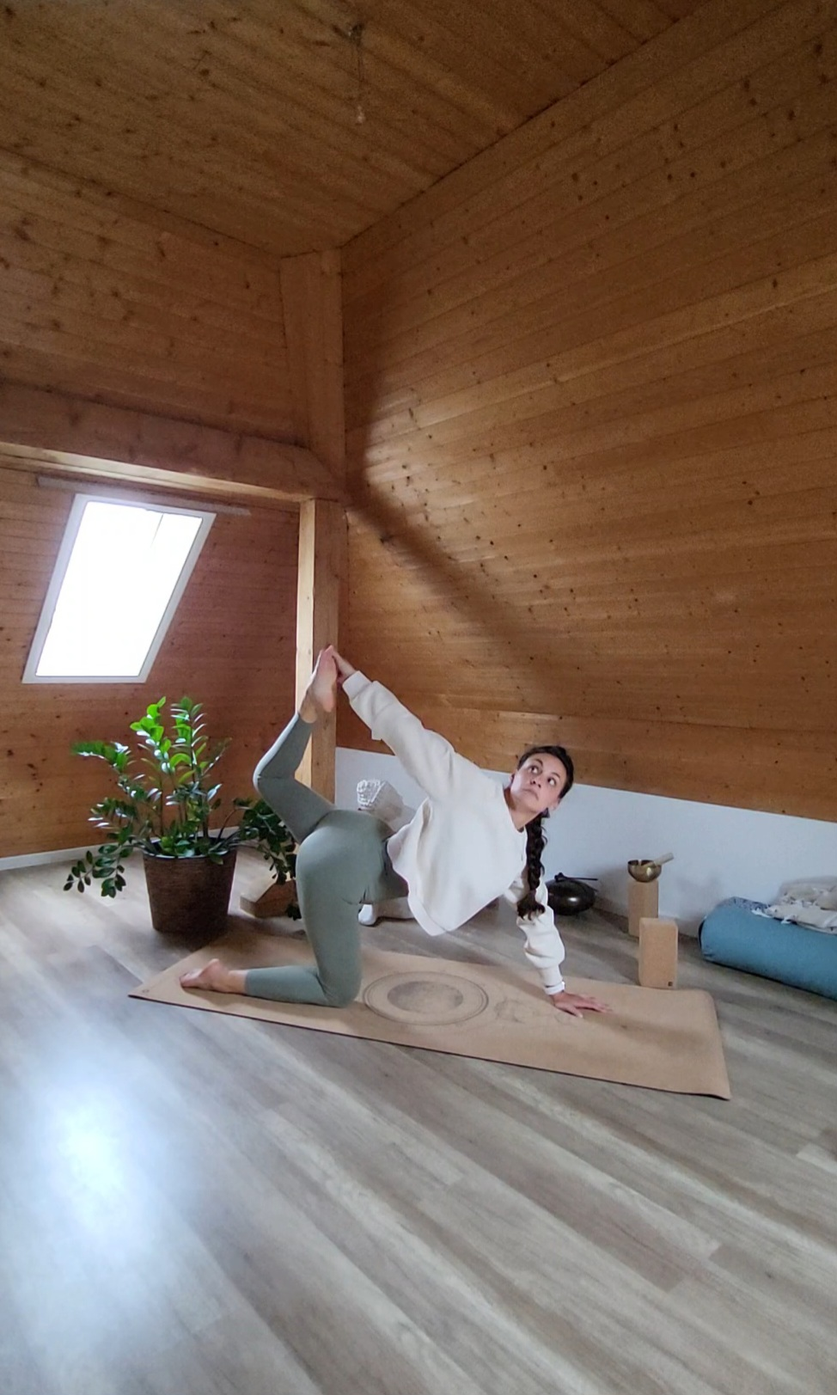
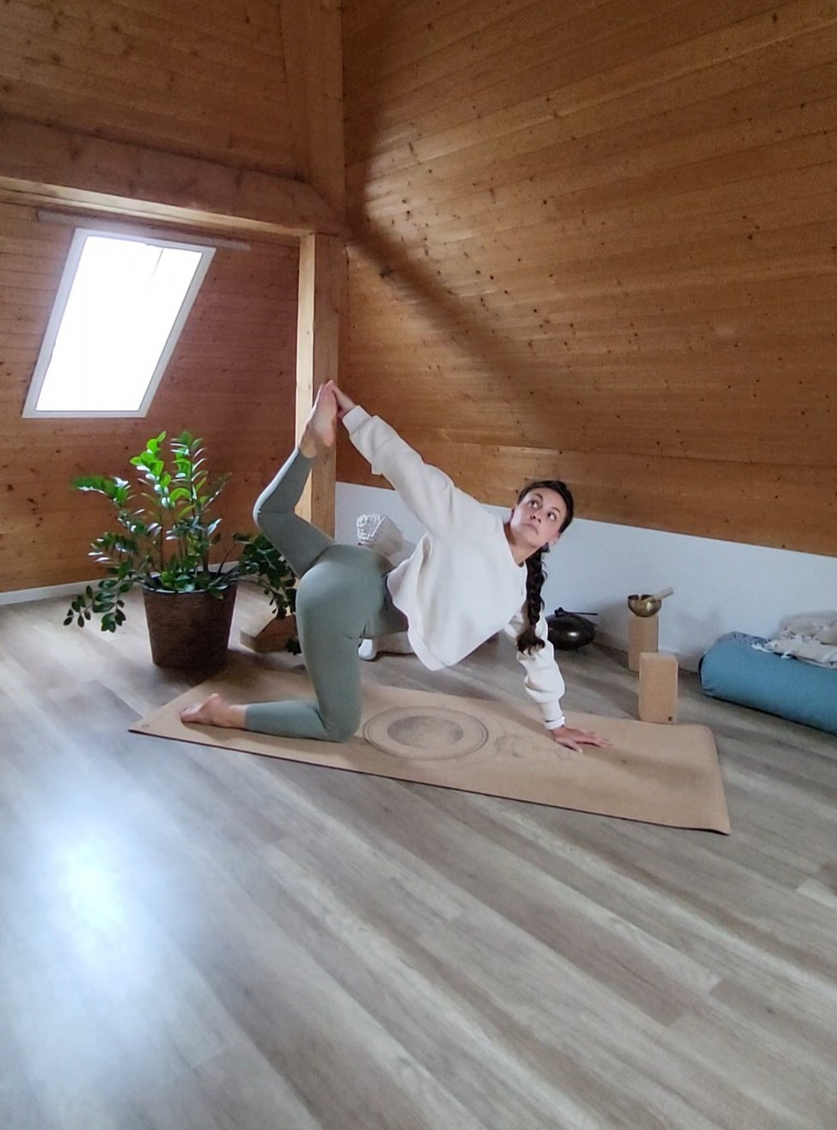
improving veranaturae

diff --git a/fr/veranaturae.html b/fr/veranaturae.html
@@ -72,37 +72,41 @@
                 <div class="services-grid">
                     <div class="service-grid-item">
                         <div class="service-image">
-                            <img src="../assets/mindfulness01.jpg" alt="Pleine Conscience au Travail">
+                            <img src="../assets/mindfulness01.jpg" alt="Coaching 1 à 1">
                         </div>
-                        <h4>Pleine Conscience au Travail</h4>
-                        <p>Intégrez la pleine conscience dans votre vie professionnelle avec des techniques pratiques pour réduire le stress, améliorer la concentration et créer un environnement de travail plus équilibré.</p>
+                        <h4>Coaching 1:1</h4>
+                        <p>Accédez à une vie plus équilibrée avec un accompagnement personnalisé.
+                            Que vous soyez nouveau dans la pleine conscience ou que vous approfondissiez une pratique existante, mes sessions de coaching individuelles sont conçues autour de vos objectifs uniques et du rythme de votre vie. Ensemble, nous cultiverons la présence, la résilience et la conscience de soi - une respiration consciente à la fois.</p>
                     </div>
                     <div class="service-grid-item">
                         <div class="service-image">
-                            <img src="../assets/landscape_01.jpeg" alt="Coaching Individuel">
-                        </div>
-                        <h4>Coaching Individuel</h4>
-                        <p>Sessions de coaching en pleine conscience personnalisées selon vos besoins et objectifs spécifiques, offrant un accompagnement et un soutien individuels sur votre parcours.</p>
-                    </div>
-                    <div class="service-grid-item">
-                        <div class="service-image">
-                            <img src="../assets/vero_01.jpg" alt="Retraite">
+                            <img src="../assets/nature02.jpg" alt="Retraite">
                         </div>
                         <h4>Retraite</h4>
-                        <p>Plongez-vous dans la nature avec nos retraites de pleine conscience, offrant une connexion profonde, un renouveau et des expériences transformatrices dans de beaux cadres naturels.</p>
+                        <p>Échappez au bruit et reconnectez-vous avec vous-même.
+                            Rejoignez l'une de mes retraites de pleine conscience en petit groupe dans les environs paisibles de Berne. Ces retraites de week-end ou de plusieurs jours offrent un espace pour un repos profond, la méditation guidée, le mouvement conscient et du temps dans la nature, afin que vous reveniez rafraîchi et inspiré.</p>
                     </div>
                     <div class="service-grid-item">
                         <div class="service-image">
-                            <img src="../assets/antoine_06.jpg" alt="Yoga et Respiration">
+                            <img src="../assets/plants_02.jpeg" alt="Pleine Conscience au Travail">
+                        </div>
+                        <h4>Pleine Conscience au Travail</h4>
+                        <p>Améliorez le bien-être, la concentration et la collaboration de votre équipe.
+                            Mes ateliers de pleine conscience personnalisés et mes sessions d'entreprise apportent clarté et calme sur le lieu de travail. Aidez votre équipe à réduire le stress, gérer le changement et améliorer l'intelligence émotionnelle, directement au cœur de votre organisation.</p>
+                    </div>
+                    <div class="service-grid-item">
+                        <div class="service-image">
+                            <img src="../assets/mindfulness02.jpg" alt="Yoga et Respiration">
                         </div>
                         <h4>Yoga et Respiration</h4>
-                        <p>Combinez des mouvements de yoga doux avec des pratiques de respiration consciente pour cultiver la conscience, réduire les tensions et améliorer votre connexion corps-esprit.</p>
+                        <p>Ralentissez, adoucissez et respirez.
+                            Le yoga et la respiration sont de puissants alliés sur le chemin de la pleine conscience. Dans ces sessions, nous combinons un mouvement conscient et doux avec des techniques de respiration guidées pour vous aider à libérer le stress, calmer l'esprit et revenir à votre centre intérieur.</p>
                     </div>
                 </div>
             </div>
             <div class="modal-footer">
                 <h4>Intéressé ? Contactez-moi !</h4>
-                <p>Prêt à commencer votre parcours de pleine conscience ? J'aimerais avoir de vos nouvelles et vous aider à trouver la pratique parfaite pour vos besoins.</p>
+                <p>Vous n'avez besoin d'aucune expérience, vous avez juste besoin d'être prêt à vous présenter tel que vous êtes. À travers le mouvement conscient et le rythme naturel de votre respiration, nous créons un espace pour la présence, l'équilibre et la restauration profonde.</p>
                 <a href="mailto:veronica@oceantoearth.life" class="button">Me Contacter</a>
             </div>
         </div>
@@ -158,13 +162,10 @@
                 <h2>À Propos de Moi</h2>
                 <div class="about-content">
                     <div class="about-text">
-                        <p>Bonjour, je suis Veronica – biologiste des plantes, coach en pleine conscience, amoureuse de la nature – et quelqu'un qui sait ce que c'est que de vivre en pilote automatique.</p>
+                        <p>Bonjour, je suis Veronica – biologiste des plantes, coach en pleine conscience, amoureuse de la nature, et quelqu'un qui sait ce que c'est que de vivre en pilote automatique.</p>
                         <p>Pendant des années, j'ai travaillé comme biologiste des plantes, profondément connectée au monde naturel. La nature a toujours été mon refuge - un endroit où je me sentais en paix, ancrée et vraiment moi-même. Mais quelque chose a changé quand j'ai découvert la pleine conscience : cette sensation de connexion s'est approfondie. La façon dont je vivais la vie, y compris mon temps dans la nature, est devenue plus vive, plus présente, plus vivante.</p>
-                        <p>La pleine conscience m'a appris à ralentir, respirer et vraiment ressentir. Même quelque chose que j'ai toujours aimé - comme la plongée - a pris une toute nouvelle profondeur. Maintenant, quand je plonge avec une pleine conscience, en accordant mon attention à chaque respiration et à chaque sensation dans mon corps, ce n'est plus juste un passe-temps ; c'est une expérience puissante et ancrante.</p>
                         <p>C'est ce qui m'a inspirée à devenir coach en pleine conscience. Je voulais partager cette façon de vivre plus consciemment - avec moins de stress, plus de présence et plus de joie.</p>
-                        <p>Que vous traversiez des défis, que vous cherchiez le calme, ou que vous souhaitiez simplement vous reconnecter avec vous-même, je suis là pour vous soutenir. Mon approche est simple, terre à terre et humaine. Vous n'avez pas besoin de vous asseoir en silence pendant des heures ou d'être "bon en méditation". Vous avez juste besoin d'une volonté de faire une pause, respirer et avancer un pas à la fois.</p>
-                        <p>Je crois que tout le monde mérite d'expérimenter le pouvoir guérisseur de ces pratiques, et je m'engage à créer des espaces sûrs et accueillants où les gens peuvent explorer, apprendre et grandir ensemble.</p>
-                    </div>
+                        </div>
                     <div class="about-image">
                         <img src="../assets/vero_01.jpg" alt="Veronica - Guide en Pleine Conscience">
                     </div>

diff --git a/de/veranaturae.html b/de/veranaturae.html
@@ -72,37 +72,41 @@
                 <div class="services-grid">
                     <div class="service-grid-item">
                         <div class="service-image">
-                            <img src="../assets/mindfulness01.jpg" alt="Achtsamkeit am Arbeitsplatz">
+                            <img src="../assets/mindfulness01.jpg" alt="1 zu 1 Coaching">
                         </div>
-                        <h4>Achtsamkeit am Arbeitsplatz</h4>
-                        <p>Bringen Sie Achtsamkeit in Ihr Berufsleben mit praktischen Techniken zur Stressreduktion, Verbesserung der Konzentration und Schaffung einer ausgewogeneren Arbeitsumgebung.</p>
+                        <h4>1:1 Coaching</h4>
+                        <p>Treten Sie in ein ausgewogeneres Leben mit persönlicher Begleitung ein.
+                            Ob Sie neu in der Achtsamkeit sind oder eine bestehende Praxis vertiefen, meine individuellen Coaching-Sitzungen sind um Ihre einzigartigen Ziele und den Rhythmus Ihres Lebens herum gestaltet. Gemeinsam kultivieren wir Präsenz, Widerstandsfähigkeit und Selbstbewusstsein - ein achtsamer Atemzug nach dem anderen.</p>
                     </div>
                     <div class="service-grid-item">
                         <div class="service-image">
-                            <img src="../assets/landscape_01.jpeg" alt="Einzelcoaching">
-                        </div>
-                        <h4>Einzelcoaching</h4>
-                        <p>Personalisierte Achtsamkeits-Coaching-Sitzungen, die auf Ihre spezifischen Bedürfnisse und Ziele zugeschnitten sind und individuelle Anleitung und Unterstützung auf Ihrem Weg bieten.</p>
-                    </div>
-                    <div class="service-grid-item">
-                        <div class="service-image">
-                            <img src="../assets/vero_01.jpg" alt="Retreat">
+                            <img src="../assets/nature02.jpg" alt="Retreat">
                         </div>
                         <h4>Retreat</h4>
-                        <p>Tauchen Sie ein in die Natur mit unseren Achtsamkeits-Retreats, die tiefe Verbindung, Erneuerung und transformative Erfahrungen in wunderschönen natürlichen Umgebungen bieten.</p>
+                        <p>Entfliehen Sie dem Lärm und verbinden Sie sich wieder mit sich selbst.
+                            Schließen Sie sich einem meiner kleinen Achtsamkeits-Retreats in der friedlichen Umgebung von Bern an. Diese Wochenend- oder mehrtägigen Retreats bieten Raum für tiefe Erholung, geführte Meditation, achtsame Bewegung und Zeit in der Natur, damit Sie erfrischt und inspiriert zurückkehren.</p>
                     </div>
                     <div class="service-grid-item">
                         <div class="service-image">
-                            <img src="../assets/antoine_06.jpg" alt="Yoga und Atemarbeit">
+                            <img src="../assets/plants_02.jpeg" alt="Achtsamkeit am Arbeitsplatz">
+                        </div>
+                        <h4>Achtsamkeit am Arbeitsplatz</h4>
+                        <p>Steigern Sie das Wohlbefinden, die Konzentration und Zusammenarbeit Ihres Teams.
+                            Meine maßgeschneiderten Achtsamkeits-Workshops und Unternehmenssitzungen bringen Klarheit und Ruhe an den Arbeitsplatz. Helfen Sie Ihrem Team, Stress zu reduzieren, Veränderungen zu bewältigen und emotionale Intelligenz zu verbessern, direkt im Herzen Ihrer Organisation.</p>
+                    </div>
+                    <div class="service-grid-item">
+                        <div class="service-image">
+                            <img src="../assets/mindfulness02.jpg" alt="Yoga und Atemarbeit">
                         </div>
                         <h4>Yoga und Atemarbeit</h4>
-                        <p>Kombinieren Sie sanfte Yoga-Bewegungen mit bewussten Atemübungen, um Achtsamkeit zu kultivieren, Spannungen zu reduzieren und Ihre Körper-Geist-Verbindung zu verbessern.</p>
+                        <p>Verlangsamen Sie, werden Sie weicher und atmen Sie.
+                            Yoga und Atemarbeit sind mächtige Verbündete auf dem Weg der Achtsamkeit. In diesen Sitzungen kombinieren wir sanfte, bewusste Bewegung mit geführten Atemtechniken, um Ihnen zu helfen, Stress abzubauen, den Geist zu beruhigen und zu Ihrem inneren Zentrum zurückzukehren.</p>
                     </div>
                 </div>
             </div>
             <div class="modal-footer">
                 <h4>Interessiert? Melden Sie sich!</h4>
-                <p>Bereit, Ihren Achtsamkeitsweg zu beginnen? Ich würde gerne von Ihnen hören und Ihnen helfen, die perfekte Praxis für Ihre Bedürfnisse zu finden.</p>
+                <p>Sie brauchen keine Erfahrung, Sie müssen nur bereit sein, sich so zu zeigen, wie Sie sind. Durch achtsame Bewegung und den natürlichen Rhythmus Ihres Atems schaffen wir Raum für Präsenz, Gleichgewicht und tiefe Wiederherstellung.</p>
                 <a href="mailto:veronica@oceantoearth.life" class="button">Kontaktieren Sie mich</a>
             </div>
         </div>
@@ -158,12 +162,9 @@
                 <h2>Über Mich</h2>
                 <div class="about-content">
                     <div class="about-text">
-                        <p>Hallo, ich bin Veronica – Pflanzenbiologin, Achtsamkeits-Coach, Naturliebhaberin – und jemand, der weiß, wie es ist, im Autopilot-Modus zu leben.</p>
+                        <p>Hallo, ich bin Veronica – Pflanzenbiologin, Achtsamkeits-Coach, Naturliebhaberin, und jemand, der weiß, wie es ist, im Autopilot-Modus zu leben.</p>
                         <p>Jahrelang habe ich als Pflanzenbiologin gearbeitet und war tief mit der natürlichen Welt verbunden. Die Natur war immer mein Zufluchtsort - ein Ort, an dem ich mich friedlich, geerdet und wirklich ich selbst fühlte. Aber etwas veränderte sich, als ich Achtsamkeit entdeckte: dieses Gefühl der Verbindung vertiefte sich. Die Art, wie ich das Leben erlebte, einschließlich meiner Zeit in der Natur, wurde lebendiger, präsenter, lebendiger.</p>
-                        <p>Achtsamkeit lehrte mich, langsamer zu werden, zu atmen und wirklich zu fühlen. Selbst etwas, das ich immer geliebt habe - wie das Tauchen - bekam eine völlig neue Tiefe. Jetzt, wenn ich mit voller Achtsamkeit tauche und mich auf jeden Atemzug und jede Empfindung in meinem Körper einstimme, ist es nicht mehr nur ein Hobby; es ist eine kraftvolle, erdende Erfahrung.</p>
                         <p>Das ist es, was mich inspiriert hat, Achtsamkeits-Coach zu werden. Ich wollte diese Art, bewusster zu leben, teilen - mit weniger Stress, mehr Präsenz und mehr Freude.</p>
-                        <p>Egal, ob Sie Herausforderungen durchleben, nach Ruhe suchen oder einfach nur wieder mit sich selbst in Verbindung treten möchten, ich bin hier, um Sie zu unterstützen. Mein Ansatz ist einfach, bodenständig und menschlich. Sie müssen nicht stundenlang in Stille sitzen oder "gut in Meditation" sein. Sie brauchen nur die Bereitschaft, innezuhalten, zu atmen und einen Schritt nach dem anderen zu machen.</p>
-                        <p>Ich glaube, dass jeder es verdient, die heilende Kraft dieser Praktiken zu erfahren, und ich setze mich dafür ein, sichere, einladende Räume zu schaffen, in denen Menschen zusammen erkunden, lernen und wachsen können.</p>
                     </div>
                     <div class="about-image">
                         <img src="../assets/vero_01.jpg" alt="Veronica - Achtsamkeitsführerin">

diff --git a/it/veranaturae.html b/it/veranaturae.html
@@ -72,37 +72,41 @@
                 <div class="services-grid">
                     <div class="service-grid-item">
                         <div class="service-image">
-                            <img src="../assets/mindfulness01.jpg" alt="Consapevolezza al Lavoro">
+                            <img src="../assets/mindfulness01.jpg" alt="Coaching 1 a 1">
                         </div>
-                        <h4>Consapevolezza al Lavoro</h4>
-                        <p>Porta la consapevolezza nella tua vita professionale con tecniche pratiche per ridurre lo stress, migliorare la concentrazione e creare un ambiente di lavoro più equilibrato.</p>
+                        <h4>Coaching 1:1</h4>
+                        <p>Accedi a una vita più equilibrata con una guida personalizzata.
+                            Che tu sia nuovo alla consapevolezza o che stia approfondendo una pratica esistente, le mie sessioni di coaching individuali sono progettate intorno ai tuoi obiettivi unici e al ritmo della tua vita. Insieme, coltiveremo presenza, resilienza e consapevolezza di sé - un respiro consapevole alla volta.</p>
                     </div>
                     <div class="service-grid-item">
                         <div class="service-image">
-                            <img src="../assets/landscape_01.jpeg" alt="Coaching Individuale">
-                        </div>
-                        <h4>Coaching Individuale</h4>
-                        <p>Sessioni di coaching personalizzate sulla consapevolezza, adattate alle tue esigenze e obiettivi specifici, fornendo guida e supporto individuali nel tuo percorso.</p>
-                    </div>
-                    <div class="service-grid-item">
-                        <div class="service-image">
-                            <img src="../assets/vero_01.jpg" alt="Ritiro">
+                            <img src="../assets/nature02.jpg" alt="Ritiro">
                         </div>
                         <h4>Ritiro</h4>
-                        <p>Immergiti nella natura con i nostri ritiri di consapevolezza, offrendo una connessione profonda, rinnovamento ed esperienze trasformative in bellissimi ambienti naturali.</p>
+                        <p>Fuggi dal rumore e riconnettiti con te stesso.
+                            Unisciti a uno dei miei ritiri di consapevolezza in piccoli gruppi nei tranquilli dintorni di Berna. Questi ritiri di fine settimana o di più giorni offrono spazio per un riposo profondo, meditazione guidata, movimento consapevole e tempo nella natura, così tornerai rinfrescato e ispirato.</p>
                     </div>
                     <div class="service-grid-item">
                         <div class="service-image">
-                            <img src="../assets/antoine_06.jpg" alt="Yoga e Respirazione">
+                            <img src="../assets/plants_02.jpeg" alt="Consapevolezza al Lavoro">
+                        </div>
+                        <h4>Consapevolezza al Lavoro</h4>
+                        <p>Migliora il benessere, la concentrazione e la collaborazione del tuo team.
+                            I miei workshop di consapevolezza personalizzati e le sessioni aziendali portano chiarezza e calma sul posto di lavoro. Aiuta il tuo team a ridurre lo stress, gestire il cambiamento e migliorare l'intelligenza emotiva, direttamente nel cuore della tua organizzazione.</p>
+                    </div>
+                    <div class="service-grid-item">
+                        <div class="service-image">
+                            <img src="../assets/mindfulness02.jpg" alt="Yoga e Respirazione">
                         </div>
                         <h4>Yoga e Respirazione</h4>
-                        <p>Combina movimenti yoga gentili con pratiche di respirazione consapevole per coltivare la consapevolezza, ridurre le tensioni e migliorare la tua connessione mente-corpo.</p>
+                        <p>Rallenta, ammorbidisci e respira.
+                            Lo yoga e la respirazione sono potenti alleati sul percorso della consapevolezza. In queste sessioni, combiniamo movimento consapevole e gentile con tecniche di respirazione guidate per aiutarti a rilasciare lo stress, calmare la mente e tornare al tuo centro interiore.</p>
                     </div>
                 </div>
             </div>
             <div class="modal-footer">
                 <h4>Interessato? Contattami!</h4>
-                <p>Pronto a iniziare il tuo percorso di consapevolezza? Mi piacerebbe sentire da te e aiutarti a trovare la pratica perfetta per le tue esigenze.</p>
+                <p>Non hai bisogno di alcuna esperienza, devi solo essere disposto a presentarti così come sei. Attraverso il movimento consapevole e il ritmo naturale del tuo respiro, creiamo spazio per presenza, equilibrio e profondo ripristino.</p>
                 <a href="mailto:veronica@oceantoearth.life" class="button">Contattami</a>
             </div>
         </div>
@@ -158,13 +162,10 @@
                 <h2>Chi Sono</h2>
                 <div class="about-content">
                     <div class="about-text">
-                        <p>Ciao, sono Veronica – biologa delle piante, coach di consapevolezza, amante della natura – e qualcuno che sa cosa significa vivere in modalità pilota automatico.</p>
+                        <p>Ciao, sono Veronica – biologa delle piante, coach di consapevolezza, amante della natura, e qualcuno che sa cosa significa vivere in modalità pilota automatico.</p>
                         <p>Per anni ho lavorato come biologa delle piante, profondamente connessa al mondo naturale. La natura è sempre stata il mio rifugio - un posto dove mi sentivo in pace, radicata e veramente me stessa. Ma qualcosa è cambiato quando ho scoperto la consapevolezza: quella sensazione di connessione si è approfondita. Il modo in cui vivevo la vita, incluso il mio tempo nella natura, è diventato più vivido, più presente, più vivo.</p>
-                        <p>La consapevolezza mi ha insegnato a rallentare, respirare e sentire davvero. Anche qualcosa che ho sempre amato - come le immersioni - ha assunto una profondità completamente nuova. Ora, quando mi immergo con piena consapevolezza, sintonizzandomi su ogni respiro e ogni sensazione nel mio corpo, non è più solo un hobby; è un'esperienza potente e radicante.</p>
                         <p>Questo è ciò che mi ha ispirato a diventare una coach di consapevolezza. Volevo condividere questo modo di vivere più consapevolmente - con meno stress, più presenza e più gioia.</p>
-                        <p>Che tu stia attraversando delle sfide, cercando calma, o semplicemente desiderando riconnetterti con te stesso, sono qui per supportarti. Il mio approccio è semplice, pratico e umano. Non devi sederti in silenzio per ore o essere "bravo nella meditazione". Hai solo bisogno della volontà di fare una pausa, respirare e fare un passo alla volta.</p>
-                        <p>Credo che tutti meritino di sperimentare il potere curativo di queste pratiche, e mi impegno a creare spazi sicuri e accoglienti dove le persone possono esplorare, imparare e crescere insieme.</p>
-                    </div>
+                        </div>
                     <div class="about-image">
                         <img src="../assets/vero_01.jpg" alt="Veronica - Guida alla Consapevolezza">
                     </div>

diff --git a/en/veranaturae.html b/en/veranaturae.html
@@ -70,39 +70,44 @@
             </div>
             <div class="modal-body">
                 <div class="services-grid">
+
                     <div class="service-grid-item">
                         <div class="service-image">
-                            <img src="../assets/mindfulness01.jpg" alt="Mindfulness at Work">
+                            <img src="../assets/mindfulness01.jpg" alt="1 to 1 Coaching">
                         </div>
-                        <h4>Mindfulness at Work</h4>
-                        <p>Bring mindfulness into your professional life with practical techniques to reduce stress, improve focus, and create a more balanced work environment.</p>
+                        <h4>1:1 Coaching</h4>
+                        <p>Step into a more balanced life with personal guidance.
+                            Whether you're new to mindfulness or deepening an existing practice, my individual coaching sessions are designed around your unique goals and life rhythm. Together, we’ll cultivate presence, resilience, and self-awareness - one mindful breath at a time.</p>
                     </div>
                     <div class="service-grid-item">
                         <div class="service-image">
-                            <img src="../assets/landscape_01.jpeg" alt="1 to 1 Coaching">
-                        </div>
-                        <h4>1 to 1 Coaching</h4>
-                        <p>Personalized mindfulness coaching sessions tailored to your specific needs and goals, providing individual guidance and support on your journey.</p>
-                    </div>
-                    <div class="service-grid-item">
-                        <div class="service-image">
-                            <img src="../assets/vero_01.jpg" alt="Retreat">
+                            <img src="../assets/nature02.jpg" alt="Retreat">
                         </div>
                         <h4>Retreat</h4>
-                        <p>Immerse yourself in nature with our mindfulness retreats, offering deep connection, renewal, and transformative experiences in beautiful natural settings.</p>
+                        <p>Escape the noise and reconnect with yourself.
+                            Join one of my small-group mindfulness retreats in the tranquil surroundings of Bern. These weekend or multi-day retreats offer space for deep rest, guided meditation, mindful movement, and time in nature, so you return refreshed and inspired.</p>
                     </div>
                     <div class="service-grid-item">
                         <div class="service-image">
-                            <img src="../assets/antoine_06.jpg" alt="Yoga and Breathwork">
+                            <img src="../assets/plants_02.jpeg" alt="Mindfulness at Work">
+                        </div>
+                        <h4>Mindfulness at Work</h4>
+                        <p>Boost your team’s well-being, focus, and collaboration.
+                            My tailored mindfulness workshops and corporate sessions bring clarity and calm into the workplace. Help your team reduce stress, manage change, and enhance emotional intelligence, right at the heart of your organization.</p>
+                    </div>
+                    <div class="service-grid-item">
+                        <div class="service-image">
+                            <img src="../assets/mindfulness02.jpg" alt="Yoga and Breathwork">
                         </div>
                         <h4>Yoga and Breathwork</h4>
-                        <p>Combine gentle yoga movements with conscious breathing practices to cultivate awareness, reduce tension, and enhance your mind-body connection.</p>
+                        <p>Slow down, soften, and breathe.
+                            Yoga and breathwork are powerful allies on the path to mindfulness. In these sessions, we combine gentle, conscious movement with guided breathing techniques to help you release stress, calm the mind, and return to your inner center.</p>
                     </div>
                 </div>
             </div>
             <div class="modal-footer">
                 <h4>Interested? Reach out!</h4>
-                <p>Ready to begin your mindfulness journey? I'd love to hear from you and help you find the perfect practice for your needs.</p>
+                <p>You don’t need any experience, you just need to be willing to show up as you are. Through mindful movement and the natural rhythm of your breath, we create space for presence, balance, and deep restoration.</p>
                 <a href="mailto:veronica@oceantoearth.life" class="button">Contact Me</a>
             </div>
         </div>
@@ -158,13 +163,10 @@
                 <h2>About Me</h2>
                 <div class="about-content">
                     <div class="about-text">
-                        <p>Hi, I'm Veronica - plant biologist, mindfulness coach, nature lover—and someone who knows what it's like to live on autopilot.</p>
+                        <p>Hi, I'm Veronica - plant biologist, mindfulness coach, nature lover, and someone who knows what it's like to live on autopilot.</p>
                         <p>For years, I worked as a plant biologist, deeply connected to the natural world. Nature has always been my refuge - a place where I felt peaceful, grounded, and truly myself. But something shifted when I discovered mindfulness: that sense of connection deepened. The way I experienced life, including my time in nature, became more vivid, more present, more alive.</p>
-                        <p>Mindfulness taught me to slow down, breathe, and really feel. Even something I've always loved - like diving - took on a whole new depth. Now, when I dive with full awareness, tuning into each breath and every sensation in my body, it's not just a hobby; it's a powerful, grounding experience.</p>
                         <p>That's what inspired me to become a mindfulness coach. I wanted to share this way of living more consciously - with less stress, more presence, and more joy.</p>
-                        <p>Whether you're navigating challenges, craving calm, or just looking to reconnect with yourself, I'm here to support you. My approach is simple, down-to-earth, and human. You don't need to sit in silence for hours or be "good at meditation." You just need a willingness to pause, breathe, and take one step at a time.</p>
-                        <p>I believe that everyone deserves to experience the healing power of these practices, and I'm committed to creating safe, welcoming spaces where people can explore, learn, and grow together.</p>
-                    </div>
+                        </div>
                     <div class="about-image">
                         <img src="../assets/vero_01.jpg" alt="Veronica - Mindfulness Guide">
                     </div>

diff --git a/css/veranaturae.css b/css/veranaturae.css
@@ -509,7 +509,7 @@ nav a:hover {
     display: grid;
     grid-template-columns: 2fr 1fr;
     gap: 3rem;
-    align-items: start;
+    align-items: stretch;
     max-width: 1000px;
     margin: 0 auto;
 }
@@ -532,6 +532,9 @@ nav a:hover {
 .about-image img {
     width: 100%;
     max-width: 300px;
+    height: 100%;
+    aspect-ratio: 1 / 1;
+    object-fit: cover;
     border-radius: 20px;
     box-shadow: 0 8px 32px rgba(107, 94, 78, 0.15);
     transition: transform 0.3s ease;
